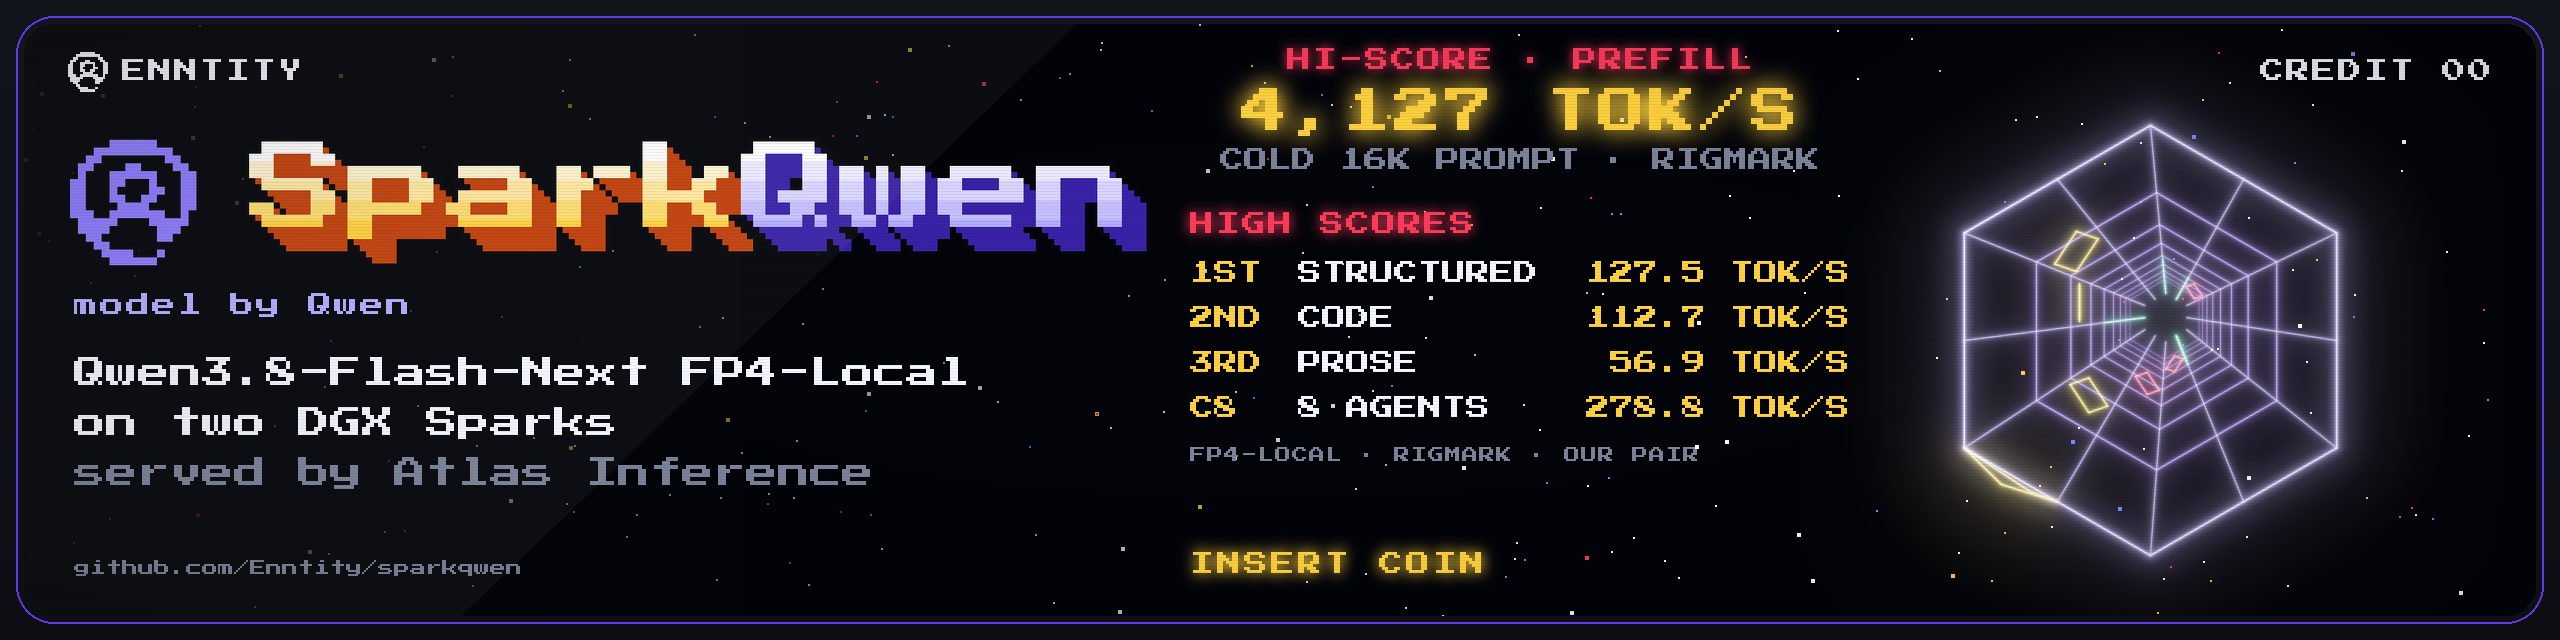
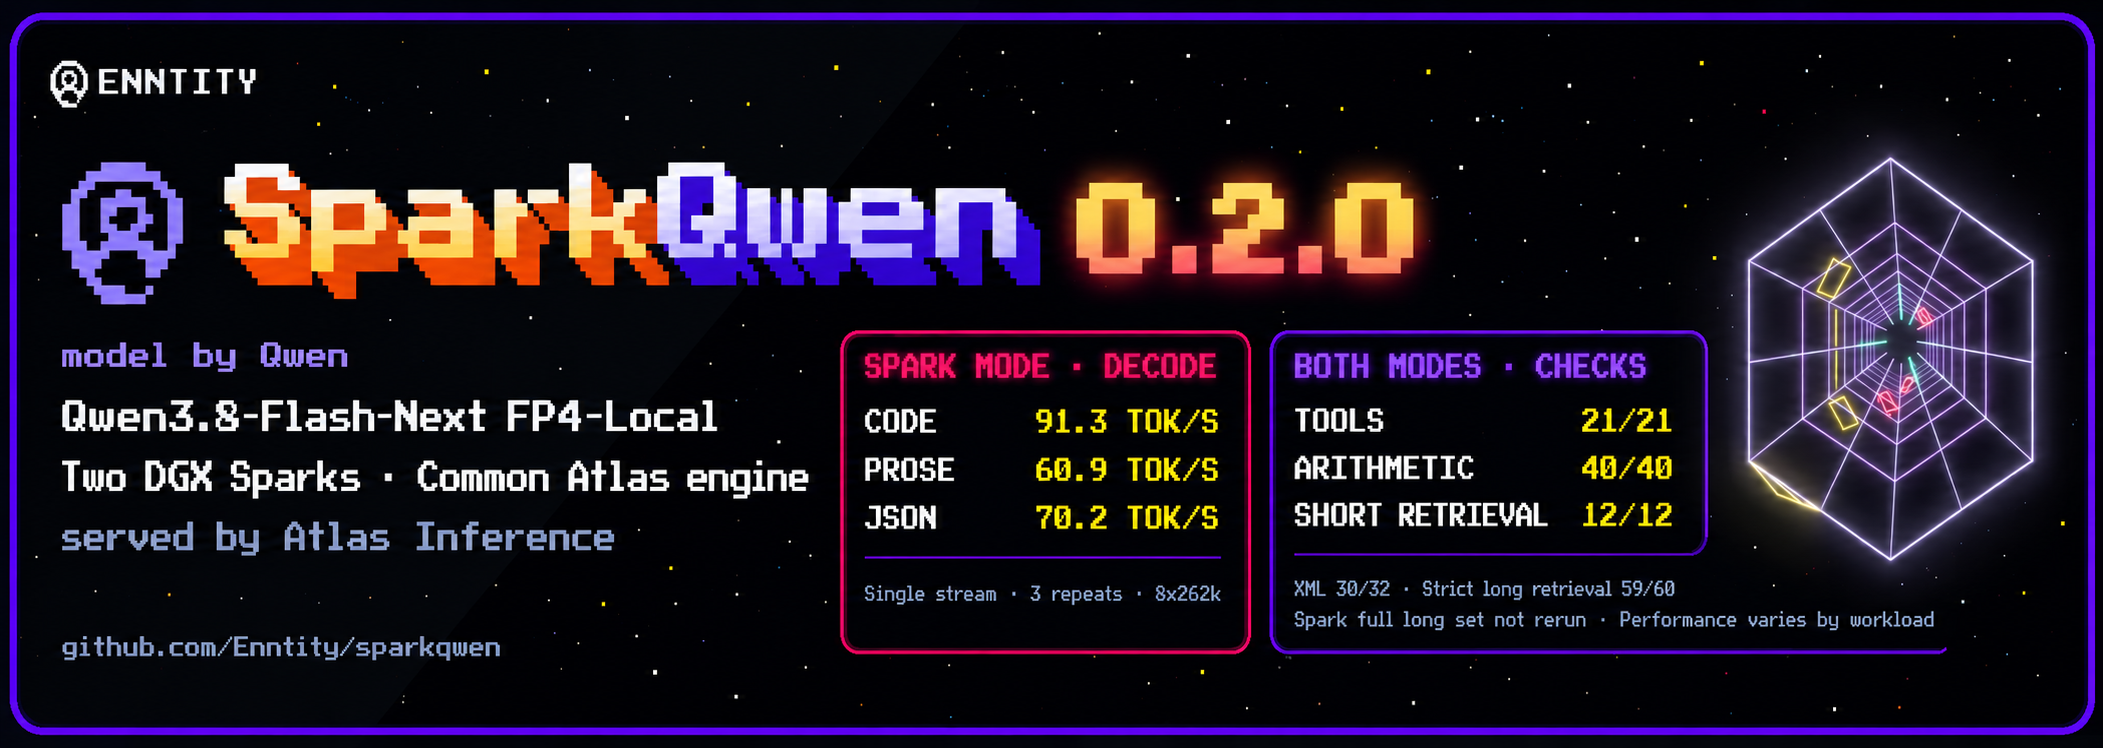
docs: prepare SparkQwen 0.2.0 announcement evidence and cards

diff --git a/README.md b/README.md
@@ -18,34 +18,73 @@ decoding, prefix caching, and an OpenAI-compatible API. It is the sibling of
 policy and measurement rules it applies to Qwen's hybrid MoE (Gated DeltaNet
 and sparse-indexed attention, 512 experts, PLE n-gram embedding).
 
+## 0.2.0 performance and quality
+
+**Spark mode: 91.3 tok/s code, 60.9 tok/s prose, 70.2 tok/s JSON.** These are
+single-stream decode averages over three repeats on two DGX Sparks, using
+Qwen3.8-Flash-Next FP4-Local, TP2/EP2, BF16 KV, `8x262k` and utilization `0.88`.
+The previous image ran on the same pair with the same profile and memory share.
+
+| Decode, tok/s | Previous image | 0.2.0 Strict | 0.2.0 Spark |
+| --- | ---: | ---: | ---: |
+| Code | 77.62 | 75.96 | **91.33** |
+| Prose | 56.39 | 53.43 | **60.91** |
+| JSON | **75.98** | 62.01 | 70.17 |
+
+Spark measured **4.01 s cold 16K prefill TTFT** and **139.52 aggregate tok/s at
+four concurrent requests** (two repeats each). These are recipe comparisons;
+generated text can differ. There is no universal speedup: JSON and aggregate
+throughput at concurrency 1 and 2 were slower than the previous image. See the
+[full performance tables and raw repeats](results/2026-10-22-common-engine/RESULT.md#performance).
+
+| Final-image quality check | Strict | Spark |
+| --- | ---: | ---: |
+| Tool battery | 21/21 | 21/21 |
+| Arithmetic | 40/40 | 40/40 |
+| Short retrieval | 12/12 | 12/12 |
+| Schema cases | 2/2 | 2/2 |
+| Still-image cases | 4/4 | 4/4 |
+| Literal-XML canary | 30/32 | 30/32 |
+| Long retrieval | 59/60 | Two selected cases replayed; full set not rerun |
+
+**Known limits.** Both modes miss two exact-format XML cases. A separate,
+harder literal-XML fixture also fails: prose replaces the requested text on
+the OpenAI-compatible endpoint, and the Anthropic-compatible endpoint exhausts
+its completion budget. Strict misses one of 60 long-retrieval cases; Spark reproduces that failure and one selected pass,
+but has no full 60-case rerun on the final image. These small batteries are
+not a formal agentic benchmark or a general model-quality score.
+
+Both modes match the full canonical logprob array (NLL **0.9951030694** over
+27,033 scored positions), and each passed 8/8 decoded comparisons in the
+concurrency, prefix-cache and MTP/serial groups. This does not establish
+whole-model BF16 parity or generated-token-ID identity.
+
+The [qualification report](results/2026-10-22-common-engine/RESULT.md) contains
+exact identities, commands, raw receipts and checksums. Full 262K prompts,
+other profiles and the 0.70 sidecar configuration are not qualified for this
+release. Read [Limitations](docs/LIMITATIONS.md) before choosing a deployment.
+Historical measurements remain in their dated result folders and do not
+qualify 0.2.0.
+
+## Quick start
+
 ```sh
 git clone https://github.com/Enntity/sparkqwen.git
 cd sparkqwen
 cp .env.example .env      # set WORKER to the other Spark's ssh destination
-./start.sh
+PROFILE=8x262k ./start.sh --mode spark
 ```
 
-The current source pins Atlas `f1fdf272` from the common Spark engine tree.
-It includes the literal tool-XML and grammar fixes, native MXFP8 shared experts,
-F32 HC/PLE norms, and Strict/Spark modes with native MTP. The image tag is
-`e3bb830b0c66`, derived from this checkout's `install/` tree. This image has not
-been published to the registry; `./start.sh` builds the exact source pin when
-the tag is unavailable. Set `PULL=0` to select a source build directly.
-
-## Current evidence
-
-The [0.2.0 qualification](results/2026-10-22-common-engine/RESULT.md) records
-the final native build and pair replay, plus earlier numerical GPU checks and
-matched Strict/Spark comparisons against the previous published image on the same pair. It identifies the
-checkpoint, image, configuration and limitations for each measurement.
-[Limitations](docs/LIMITATIONS.md) separates the current scope from historical
-results. A version number identifies the distribution; it is not a claim of
-universal numerical parity or model quality.
-
-The previous published image (`70890529ba64`, engine `63bebfa6`) and its known
-quality limitations remain documented in the
-[2026-10-20 fidelity review](results/2026-10-20-fidelity-review/RESULT.md).
-Earlier drafter and vision measurements remain in their dated result folders.
+The [0.2.0 release](https://github.com/Enntity/sparkqwen/releases/tag/v0.2.0)
+and its container are **published**. `./start.sh` pulls
+`ghcr.io/enntity/atlas-sparkqwen:e3bb830b0c66`; the
+[registry manifest](https://github.com/Enntity/sparkqwen/releases/download/v0.2.0/registry-manifest.json)
+records digest `sha256:fffbd3918c3a7fd1d4f64ca8c9f1484b54aaa64811868f33a81777bacc9d993e`.
+Set `PULL=0` to build the pinned source instead. The image uses common Atlas
+commit `f1fdf272`, including the tool-XML and grammar fixes, native MXFP8 shared
+experts, and F32 HC/PLE norms. Omitting `--mode` selects Strict; both modes keep
+native MTP. The example and figures use `PROFILE=8x262k`; the launcher's default is
+`8x32k`.
 
 ### Choosing a checkpoint
 

diff --git a/results/2026-10-22-common-engine/RESULT.md b/results/2026-10-22-common-engine/RESULT.md
@@ -1,7 +1,7 @@
 <!-- SPDX-License-Identifier: AGPL-3.0-only -->
 # SparkQwen 0.2.0
 
-Qualification covers **Qwen3.8-Flash-Next FP4-Local only**, running across two DGX Sparks at TP2/EP2. This source release uses the common Atlas engine shared with SparkGLM. The versioned image was built locally and tested on both nodes; it has not been published to the registry or deployed as managed Qwen serving.
+Qualification covers **Qwen3.8-Flash-Next FP4-Local only**, running across two DGX Sparks at TP2/EP2. This source release uses the common Atlas engine shared with SparkGLM. The versioned image was built locally and tested on both nodes. It was subsequently published in the [0.2.0 release](https://github.com/Enntity/sparkqwen/releases/tag/v0.2.0), pulled anonymously on both nodes, and deployed in managed Spark mode. The [registry manifest](https://github.com/Enntity/sparkqwen/releases/download/v0.2.0/registry-manifest.json) records published digest `sha256:fffbd3918c3a7fd1d4f64ca8c9f1484b54aaa64811868f33a81777bacc9d993e`. Build-time receipts retain their original publication status; publication did not change the tested image or qualify additional configurations.
 
 ## Tested identity
 

diff --git a/docs/assets/README.md b/docs/assets/README.md
@@ -1,0 +1,18 @@
+<!-- SPDX-License-Identifier: AGPL-3.0-only -->
+# SparkQwen 0.2.0 cards
+
+`banner.png` is the README card; `social-preview.png` is the GitHub social
+preview card. Both were updated with image generation on 2026-10-23, retaining
+the existing arcade style. The numbers come from the
+[0.2.0 qualification](../../results/2026-10-22-common-engine/RESULT.md), rounded
+to one decimal place for decode throughput.
+
+The speed panel describes Spark mode, single-stream decode, three repeats and
+profile `8x262k`. The quality panel describes both final modes. The cards retain
+the 30/32 XML result, Strict's 59/60 long-retrieval result, the missing full
+Spark long-set rerun and the workload-dependent performance caveat. The README
+and qualification report contain the additional limits and full evidence.
+
+Updating this file in Git does not update GitHub's saved social preview. Upload
+`social-preview.png` under the repository's General settings, then verify the
+saved image separately.
